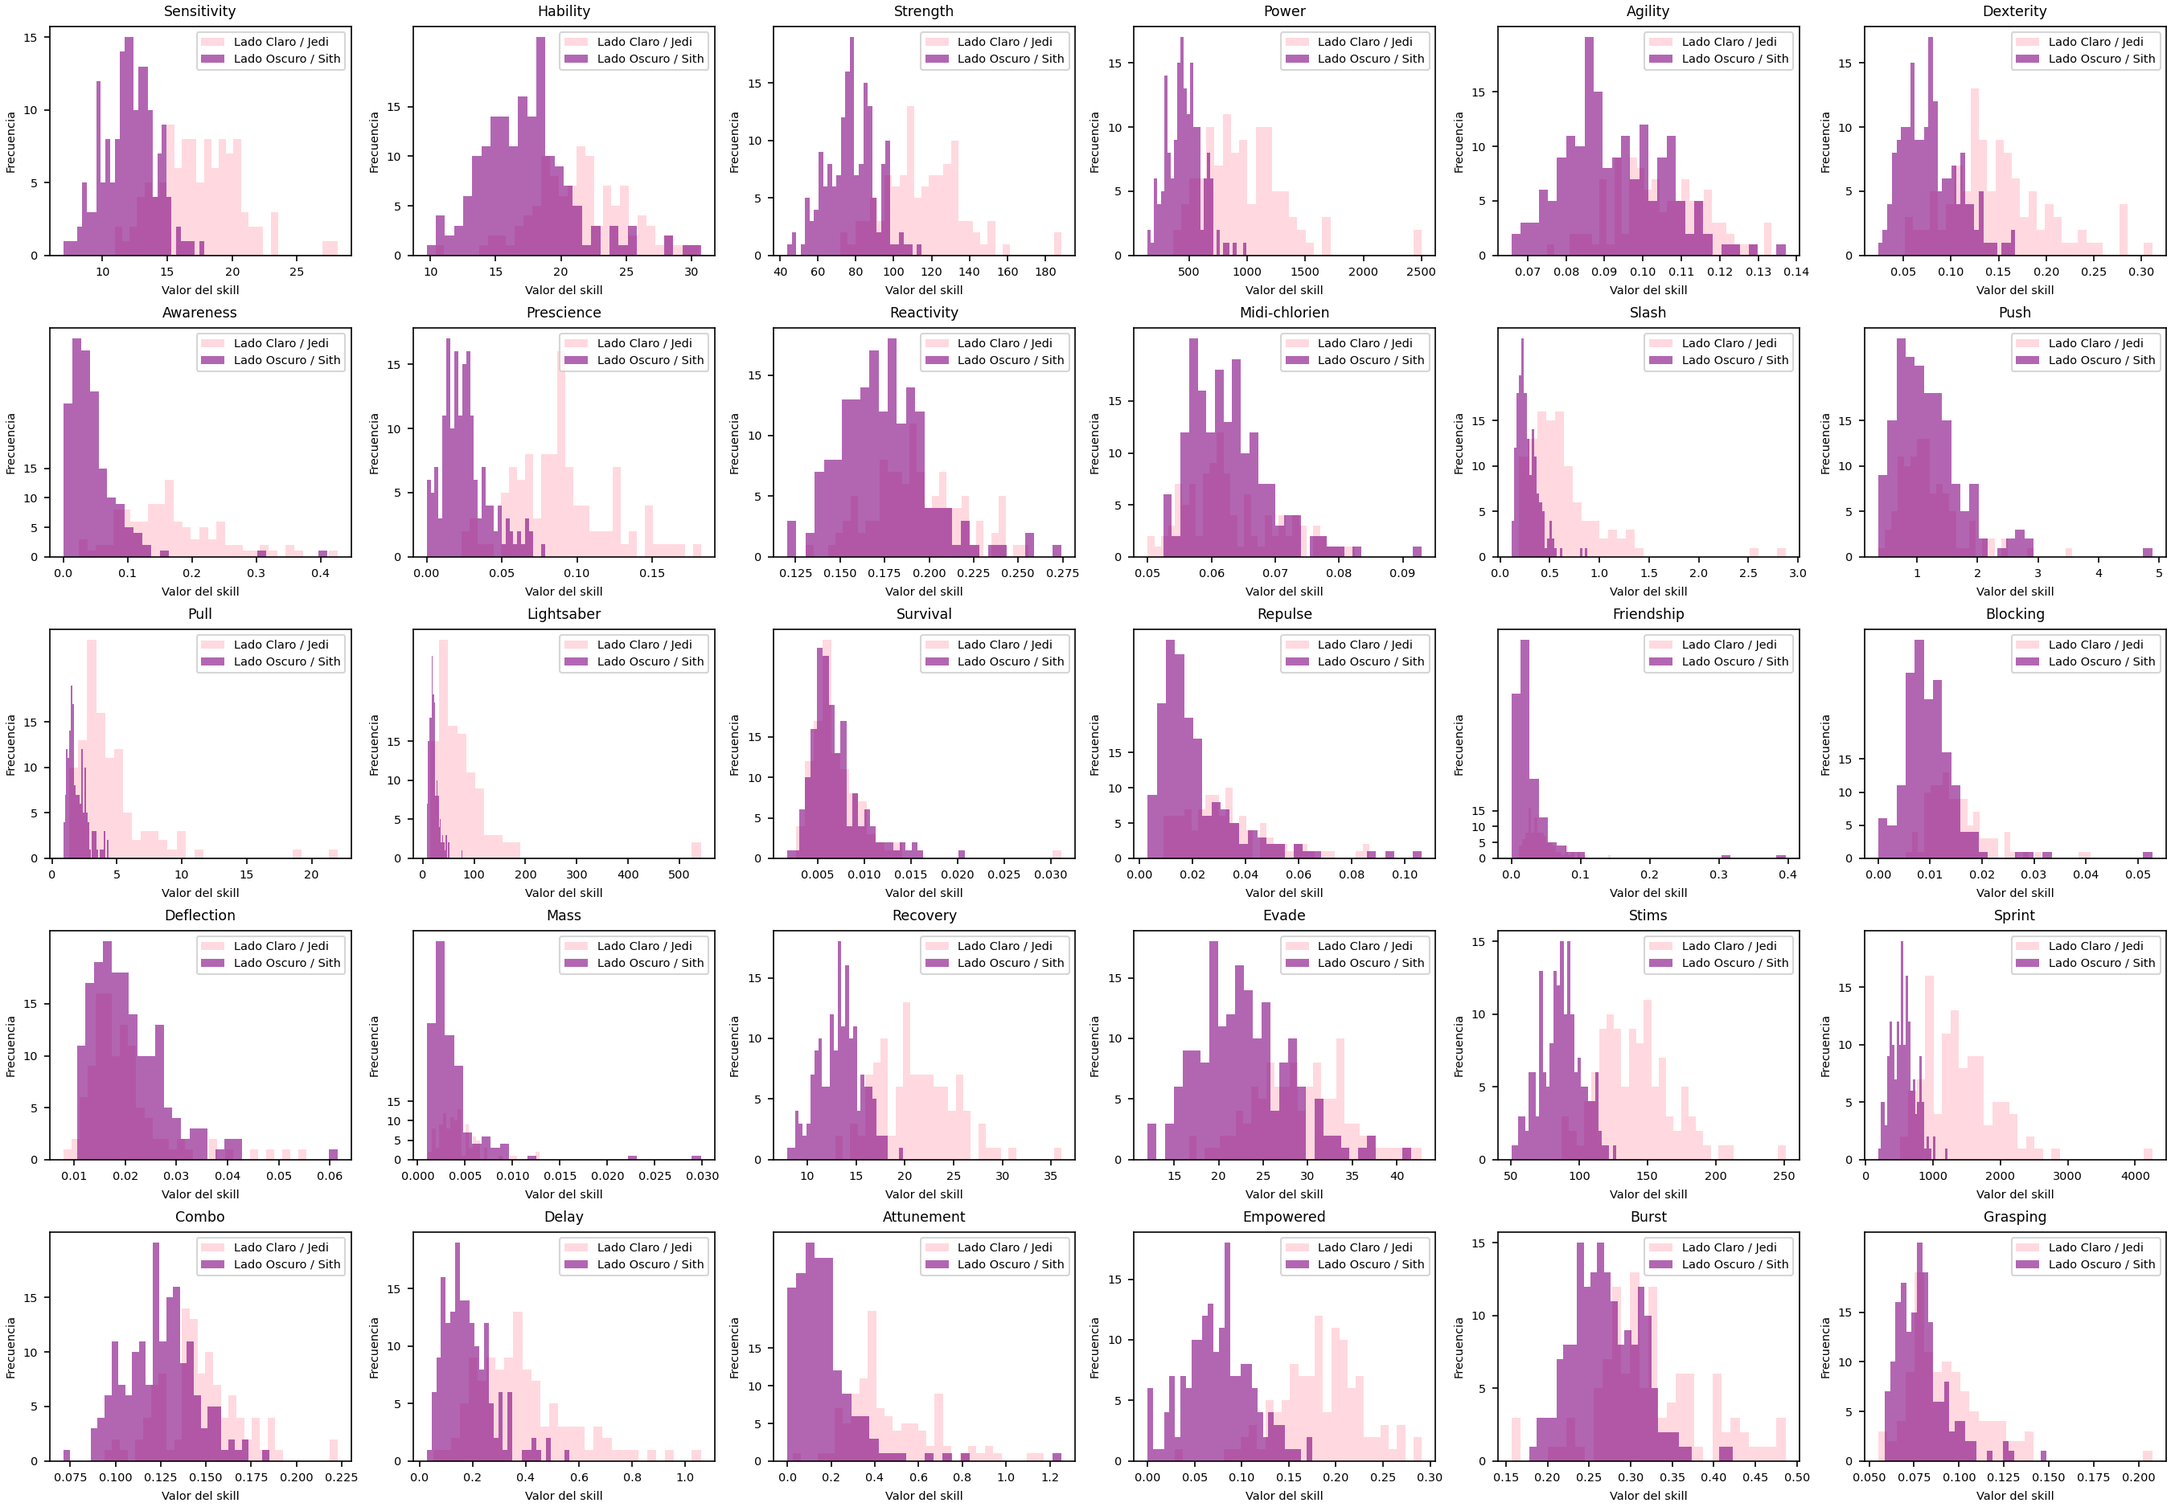
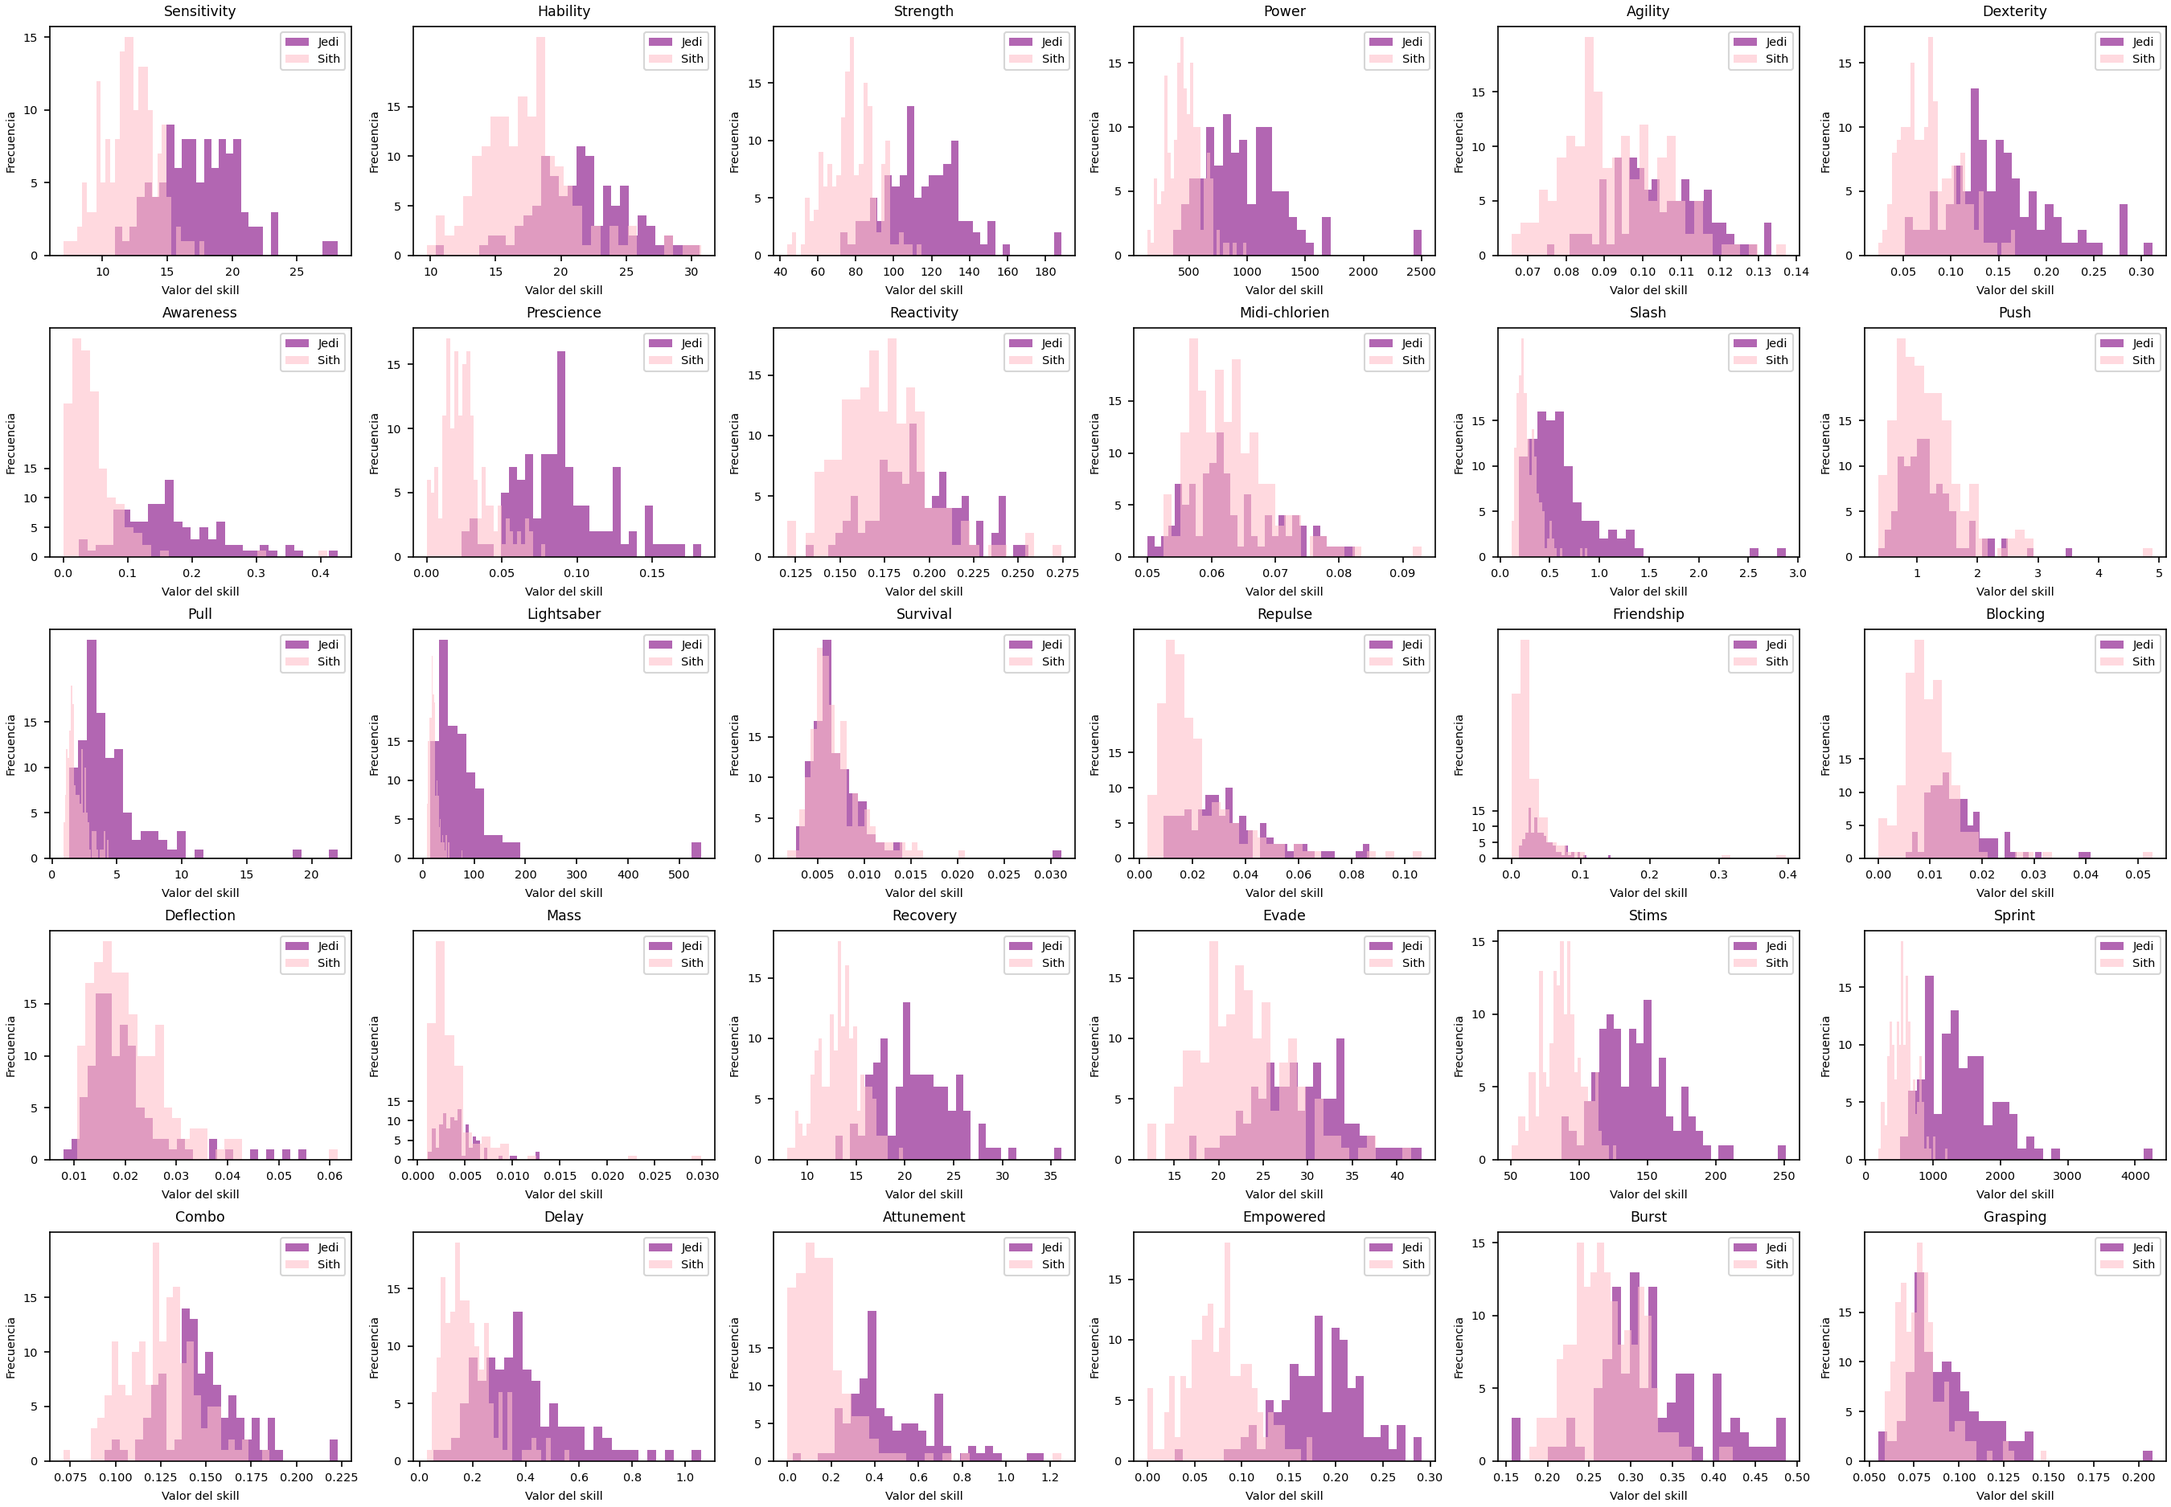
conJedi/sith

diff --git a/Data_scientist_1/ex01/Correlation.py b/Data_scientist_1/ex01/Correlation.py
@@ -1,0 +1,73 @@
+#!/usr/bin/env python3
+
+import pandas as pd
+import os
+import sys
+
+# Correlation script for ex01
+target_file = os.path.join('..', 'ex00', 'Train_knight.csv')
+if not os.path.isfile(target_file):
+    sys.exit(f"ERROR: no se encontró '{target_file}'")
+
+# Detect delimiter: choose ';' if more semicolons than commas in first non-empty line
+def detect_delimiter(path):
+    with open(path, 'r') as f:
+        for line in f:
+            if line.strip():
+                return ';' if line.count(';') > line.count(',') else ','
+    return ','
+
+delim = detect_delimiter(target_file)
+
+# Read CSV, handling missing header for 'knight' column
+try:
+    df = pd.read_csv(target_file, sep=delim, low_memory=False)
+except Exception as e:
+    sys.exit(f"ERROR leyendo '{target_file}': {e}")
+
+# If 'knight' not in columns, reload skipping first row and assigning names
+FEATURES = [
+    "Sensitivity", "Hability", "Strength", "Power", "Agility", "Dexterity",
+    "Awareness", "Prescience", "Reactivity", "Midi-chlorien", "Slash", "Push",
+    "Pull", "Lightsaber", "Survival", "Repulse", "Friendship", "Blocking",
+    "Deflection", "Mass", "Recovery", "Evade", "Stims", "Sprint", "Combo",
+    "Delay", "Attunement", "Empowered", "Burst", "Grasping"
+]
+expected_cols = FEATURES + ['knight']
+if 'knight' not in df.columns or not set(expected_cols).issubset(df.columns):
+    try:
+        df = pd.read_csv(
+            target_file,
+            sep=delim,
+            header=None,
+            skiprows=1,
+            names=expected_cols,
+            low_memory=False
+        )
+    except Exception as e:
+        sys.exit(f"ERROR recargando '{target_file}' con nombres asignados: {e}")
+    # Validate again
+    if 'knight' not in df.columns:
+        sys.exit("ERROR: tras reasignar nombres no se encontró la columna 'knight'.")
+
+# Convert all columns to numeric
+for col in df.columns:
+    df[col] = pd.to_numeric(df[col], errors='coerce')
+# Drop rows without a valid knight value
+df = df.dropna(subset=['knight'])
+
+# Compute correlation
+corr_with_knight = df.corr()['knight']
+# Sort descending
+corr_sorted = corr_with_knight.sort_values(ascending=False)
+
+# Print results
+def main():
+    for feature, value in corr_sorted.items():
+        print(f"{feature:<12} {value:.6f}")
+
+if __name__ == '__main__':
+    main()
+
+
+

diff --git a/Data_scientist_1/ex00/histogram.py b/Data_scientist_1/ex00/histogram.py
@@ -104,13 +104,13 @@ def plot_train():
         d0 = df.loc[df['knight']=='Jedi', feat].dropna()
         d1 = df.loc[df['knight']=='Sith', feat].dropna()
         if d0.size:
-            ax.hist(d0, bins=30, color='pink', alpha=0.6)
+            ax.hist(d0, bins=30, color='purple', alpha=0.6)
         if d1.size:
-            ax.hist(d1, bins=30, color='purple', alpha=0.6)
+            ax.hist(d1, bins=30, color='pink', alpha=0.6)
         if not d0.size and not d1.size:
             ax.text(0.5,0.5,'No data',ha='center',va='center',transform=ax.transAxes,fontsize='small',color='gray')
         # Always add legend with fixed labels
-        ax.legend(['Lado Claro / Jedi','Lado Oscuro / Sith'], fontsize='x-small')
+        ax.legend(['Jedi','Sith'], fontsize='x-small')
 
     plot_grid(df, draw_train,
               'Distribución por clase de cada skill (Train_knight.csv)',

diff --git a/README.md b/README.md
@@ -1,164 +1,95 @@
-> ⚠ **Heads up!**
-> This project hasn’t gone through a formal review yet—expect the occasional typo, rogue bug, or mysterious SQL gremlin. Proceed at your own risk 🕵♂🛠
+⚠ Heads up!
 
-# Piscine Data Science
+This project hasn’t gone through a formal review yet—expect the occasional typo, rogue bug, or mysterious SQL gremlin. Proceed at your own risk 🕵♂🛠
 
-This repository contains the solutions for the **Piscine Data Science** program at 42, organized by days and modules.
+Piscine Data Science
 
----
+This repository contains the solutions for the Piscine Data Science program at 42, organized by days and modules.
 
-## Modules
+Modules
 
-* **Day 0 – Data Engineer:** Set up PostgreSQL & pgAdmin, import CSVs into the database.
-* **Day 1 – Data Warehouse:** Clean, deduplicate, and merge tables (customers & items).
-* **Day 2 – Data Analyst (Data Viz):** Generation of data charts and visualizations. Includes histograms, boxplots, time series, pie charts, and **clustering methods (Elbow Method and K-Means)**.
+Day 0 – Data Engineer: Set up PostgreSQL & pgAdmin, import CSVs.
 
----
+Day 1 – Data Warehouse: Clean, deduplicate, and merge tables (customers & items).
 
-## 🛠 Prerequisites
+Day 2 – Data Analyst (Viz): Charts and visualizations (histograms, boxplots, time series, pie charts, Elbow Method, K-Means).
 
-* Docker & Docker Compose
-* Python 3.9+
-* (Optional) Virtual environment
-* Install Python dependencies:
+Day 3 – Data Scientist: Machine learning and model development (ex00: Histogram).
 
-    ```bash
-    pip install -r requirements.txt
-    ```
+🛠 Prerequisites
 
----
+Docker & Docker Compose
 
-## 🚀 Quick Start
+Python 3.9+
 
-1.  **Bring up services:**
+(Optional) Virtual environment
 
-    ```bash
-    docker-compose up -d --build
-    ```
+Install dependencies:
 
-2.  **Run SQL scripts:** Load the Data Warehouse exercises.
+pip install -r requirements.txt
 
-    ```bash
-    docker-compose exec db psql -U bea -d piscineds \
-      -f Data_Warehouse/ex01/create_customers.sql \
-      -f Data_Warehouse/ex02/remove_duplicates.sql \
-      -f Data_Warehouse/ex03/fusion.sql
-    ```
+🚀 Quick Start
 
-3.  **Verify in pgAdmin:** Open `http://localhost:8081` (user `admin@admin.com` / password `admin`), connect to the database server, and explore the tables.
+Start services
 
-4.  **Generate visualizations:** Run the Python scripts for each Data Viz exercise.
+docker-compose up -d --build
 
-    ```bash
-    # Navigate to the Data_viz directory first
-    # cd Data_viz/
+Run Data Warehouse SQL
 
-    # Exercise 00
-    python ex00/pie.py --input_folder /data/customer --output ./ex00/output/pie.png
+docker-compose exec db psql -U bea -d piscineds \
+  -f Data_Warehouse/ex01/create_customers.sql \
+  -f Data_Warehouse/ex02/remove_duplicates.sql \
+  -f Data_Warehouse/ex03/fusion.sql
 
-    # Exercise 01
-    python ex01/chart.py --outdir ./ex01/output
+Verify in pgAdmin: http://localhost:8081 (admin@admin.com / admin)
 
-    # Exercise 02
-    python ex02/mustache.py --start 2022-10-01 --end 2023-02-28 --outdir ./ex02/output
+Run Data Viz scripts (Day 2)
 
-    # Exercise 03
-    python ex03/Building.py --start 2022-10-01 --end 2023-02-28 --outdir ./ex03/output
+cd Data_viz
+python ex00/pie.py --input_folder /data/customer --output ./ex00/output/pie.png
+python ex01/chart.py --outdir ./ex01/output
+python ex02/mustache.py --start 2022-10-01 --end 2023-02-28 --outdir ./ex02/output
+python ex03/Building.py --start 2022-10-01 --end 2023-02-28 --outdir ./ex03/output
+python ex04/elbow.py --start 2022-10-01 --end 2023-02-28 --outdir ./ex04/output
+python ex05/clustering.py --start 2022-10-01 --end 2023-02-28 --outdir ./ex05/output --n_clusters 4
 
-    # Exercise 04 (Elbow Method)
-    python ex04/elbow.py --start 2022-10-01 --end 2023-02-28 --outdir ./ex04/output
+Run Data Scientist script (Day 3)
 
-    # Exercise 05 (Clustering)
-    python ex05/clustering.py --start 2022-10-01 --end 2023-02-28 --outdir ./ex05/output --n_clusters 4 # Adjust --n_clusters if needed
-    ```
+cd ../Data_scientist_1/ex00
+python histogram.py --train Train_knight.csv --test Test_knight.csv --output Histogram.png
 
----
+📂 Project Structure
 
-## 📂 Project Structure
-
-```sql
 .
-├── Data_Warehouse/
-│   ├── ex01/ # Create customers table
-│   ├── ex02/ # Remove duplicates
-│   └── ex03/ # Merge customers + items
-├── Data_viz/
-│   ├── ex00/ # Pie chart (event_type)
-│   ├── ex01/ # Time-series charts (customers & sales)
-│   ├── ex02/ # Boxplots (“Mustache”)
-│   ├── ex03/ # Histograms (frequency & spending)
-│   ├── ex04/ # Elbow method
-│   └── ex05/ # Customer clustering
+├── Data_Warehouse/          # Day 1
+│   ├── ex01/                # Create customers table
+│   ├── ex02/                # Remove duplicates
+│   └── ex03/                # Merge tables
+├── Data_viz/                # Day 2
+│   ├── ex00/                # Pie chart
+│   ├── ex01/                # Time-series charts
+│   ├── ex02/                # Boxplots (“Mustache”)
+│   ├── ex03/                # Histograms (orders & spending)
+│   ├── ex04/                # Elbow Method
+│   └── ex05/                # K-Means Clustering
+├── Data_scientist_1/        # Day 3
+│   └── ex00/                # Histogram (knights’ skills & target)
 ├── docker-compose.yml
 ├── Dockerfile
 ├── requirements.txt
-└── README.md # This file
-📊 Exercise Descriptions (Day 2 – Data Viz)
-This section describes the Data Visualization exercises (Day 2), including customer clustering, which are part of the Day 2 of the Piscine. Each exercise generates charts that are saved in their respective output/ folder.
+└── README.md
 
-ex00: Pie Chart of event_type
-(Data_viz/ex00/pie.py)
+Day 2 – Data Viz Exercises
 
-Generates a pie chart showing the percentage breakdown of each event type (event_type) in the raw customer data.
+ex00: Pie Chart – Breakdown of event_type (Data_viz/ex00/pie.py).ex01: Time-Series – Daily unique customers, monthly sales, avg. spend (ex01/chart.py).ex02: Boxplots – Price distributions (ex02/mustache.py).ex03: Histograms – Order frequency & spending (ex03/Building.py).ex04: Elbow Method – WCSS vs. K clusters (ex04/elbow.py).ex05: K-Means Clustering – Customer segmentation (ex05/clustering.py).
 
-ex01: Time-Series Charts (Customers & Sales)
-(Data_viz/ex01/chart.py)
+Day 3 – Data Scientist (ex00: Histogram)
 
-Generates time-series plots analyzing customer behavior and sales over time:
+Directory: Data_scientist_1/ex00/
 
-Daily Unique Customers: A line plot showing the number of unique customers per day.
+Description: Generate a combined histogram of knights’ features (skills) and the target “knight” (Force side) using Train_knight.csv and Test_knight.csv.
 
-Total Monthly Sales: A bar chart illustrating the sum of total sales per month.
-
-Average Spend per Customer/Month: An area + line chart visualizing the average amount spent per unique customer each month.
-
-ex02: Boxplots (“Mustache”)
-(Data_viz/ex02/mustache.py)
-
-Creates styled boxplots to visualize the distribution of purchase prices:
-
-Overall Purchase Price Distribution: Displays the distribution of all purchase prices, including outliers.
-
-Purchase Price Distribution (Common Range): Focuses on a common range of purchase prices and typically hides outliers to show the main data concentration.
-
-Basket Price per User: A boxplot representing the distribution of total spending per user. (Note: The specific implementation and filtering for this third boxplot may vary).
-
-ex03: Histograms of Order Frequency & Spending
-(Data_viz/ex03/Building.py)
-
-Generates two histograms to show the distribution of customer behavior based on their purchase activity and spending. Data is filtered for users with total spending below 225 A$.
-
-Order Frequency per User: A histogram showing how many customers made a certain number of purchases.
-Total Spending per User: A histogram showing how many customers spent within specific monetary value ranges.
-ex04: Elbow Method
-(Data_viz/ex04/elbow.py)
-
-Implements the Elbow Method to help determine the optimal number of clusters for customer segmentation. The script calculates the Within-Cluster Sum of Squares (WCSS) for K-Means clustering performed with a range of cluster numbers (k). The generated plot shows WCSS vs. k. The "elbow" point on this curve visually suggests a suitable number of clusters where adding more clusters provides diminishing returns in reducing within-cluster variance.
-
-ex05: Customer Clustering
-(Data_viz/ex05/clustering.py)
-
-Performs customer segmentation using K-Means clustering based on scaled purchase frequency and total monetary value. It assigns each customer to a cluster and provides visualizations of the resulting customer groups.
-
-The script analyzes the characteristics of each cluster (e.g., average frequency, average monetary value) to allow for meaningful interpretation and naming of the customer segments (e.g., 'New/Inactive Customers', 'Standard Customers', 'Silver Customers', 'Gold/Platinum Customers'). These names are then used in the plots along with specific colors.
-
-Generated visualizations include:
-
-Customer Clusters (Scaled Features): A scatter plot showing customers in the scaled feature space (frequency vs. monetary), colored by their assigned cluster name. Cluster centroids are marked.
-
-Average Characteristics per Cluster: Bar plots illustrating the average original purchase count and average original total spending for each named cluster. These plots help in understanding the typical profile of customers within each segment.
-(Note: The plot linked below shows average cluster characteristics, likely total spending, as represented by 'clustering_centroids.png' in your text).
-(Another bar plot showing average purchase count per cluster is also generated by the script).
-
-Remember to analyze the printed average cluster characteristics after the first run of clustering.py and update the cluster_names_map and cluster_colors_map dictionaries in the script based on your data's specific cluster averages before running it a second time to generate the final plots with correct names and colors.
-
-Project Setup & Execution (Simplified)
-For a simplified setup focused on the Data Viz part after prerequisites are met:
-
-Ensure Database is Running and Loaded: Make sure your PostgreSQL database is accessible and contains the necessary customers_full table populated with data (refer to Day 0 and Day 1 exercises).
-Set Environment Variables: Configure your database connection details as environment variables in your terminal session.
-Run Scripts: Execute the Python scripts for each exercise within the Data_viz directory, providing the necessary arguments.
-(Refer back to the "Quick Start" section for specific commands for each exercise).
+Output: Save figure as Histogram.*.
 
 
 
